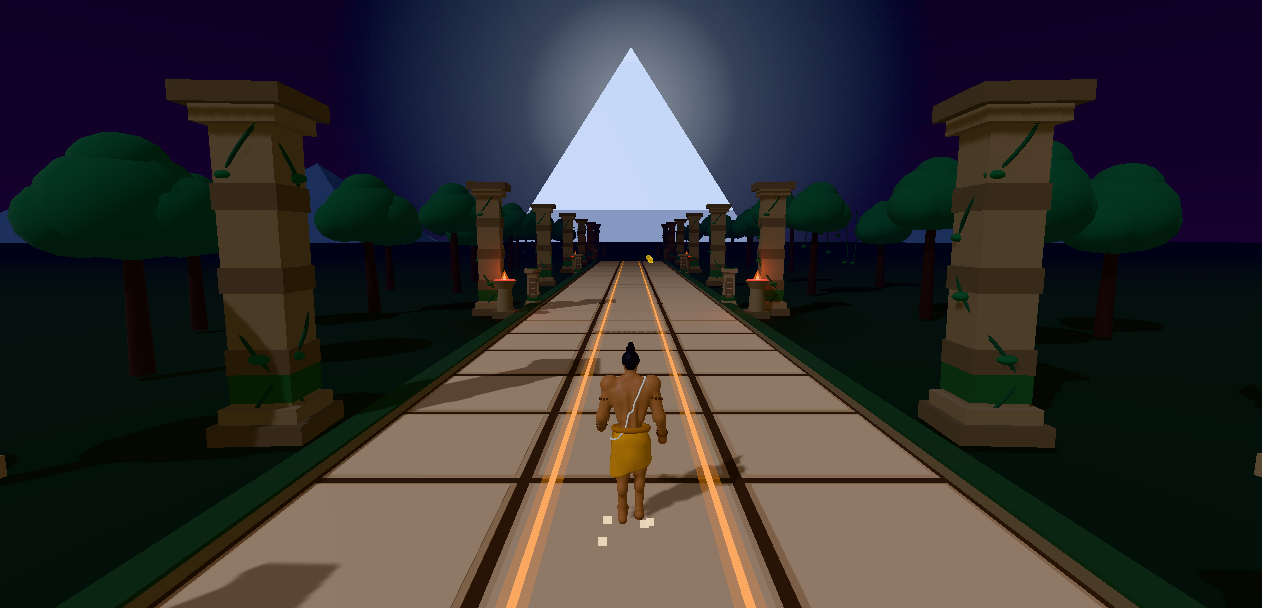
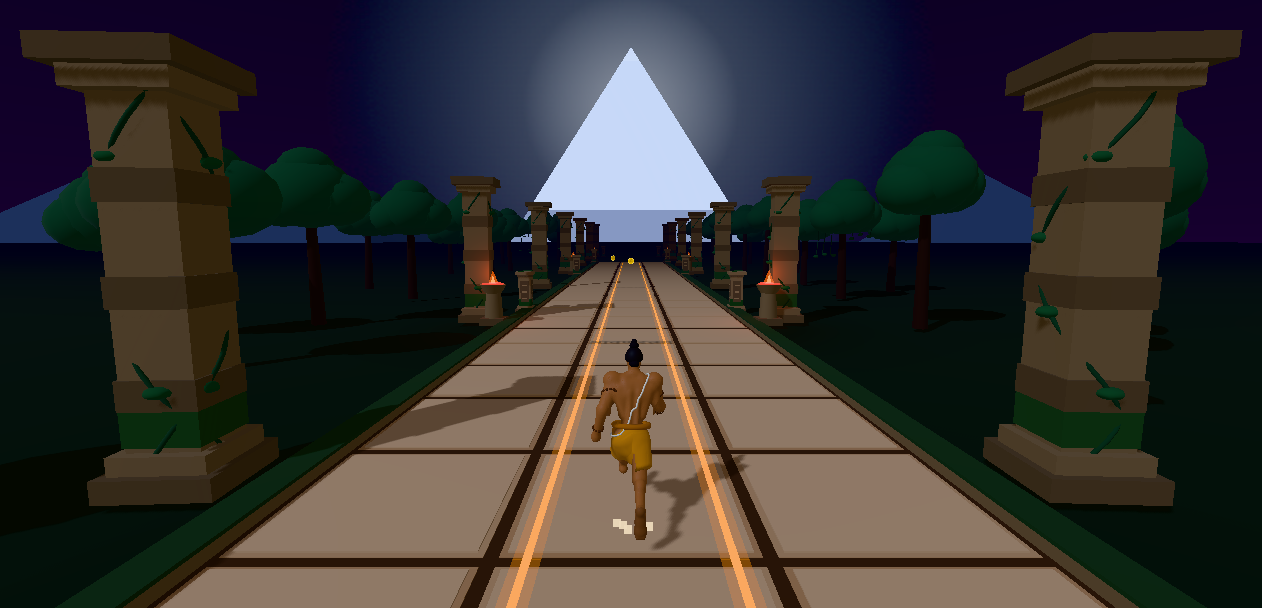
divine powers

diff --git a/src/ui/HUD.js b/src/ui/HUD.js
@@ -185,11 +185,14 @@ export function initHUD(root) {
         ⚡ SHAKTI ENERGY
       </div>
     </div>
-    <div style="width: 100%; height: 10px; background: rgba(255, 255, 255, 0.15); border-radius: 5px; overflow: hidden;">
-      <div id="hud-shakti-bar" style="width: 40%; height: 100%; background: linear-gradient(90deg, #ff8c2e, #ffe666); box-shadow: 0 0 8px #ff8c2e; transition: width 0.2s;"></div>
+    <div style="position: relative; width: 100%; height: 10px; background: rgba(255, 255, 255, 0.15); border-radius: 5px; overflow: hidden;">
+      <div id="hud-shakti-bar" style="width: 0%; height: 100%; background: linear-gradient(90deg, #ff8c2e, #ffe666); box-shadow: 0 0 8px #ff8c2e; transition: width 0.2s, filter 0.2s, box-shadow 0.2s;"></div>
     </div>
     <div id="hud-power-slot" style="font-size: 11px; font-weight: 800; color: #c9a24b; margin-top: 2px; text-align: center;">
-      DIVINE POWER: NONE
+      CHARGING 0/100
+    </div>
+    <div id="hud-held-power" style="font-size: 11px; font-weight: 800; color: #8f86ad; margin-top: 1px; text-align: center;">
+      NO POWER IN HAND
     </div>
   `;
   hudContainer.appendChild(shaktiCard);
@@ -245,7 +248,8 @@ export function initHUD(root) {
     <div style="display: flex; gap: 12px;">
       <button id="btn-slide" style="width: 58px; height: 58px; border-radius: 50%; background: rgba(32,36,63,0.85); border: 2px solid #4de0c0; color: #4de0c0; font-size: 13px; font-weight: 900; box-shadow: 0 4px 12px rgba(0,0,0,0.5); cursor: pointer;">SLIDE<br>▼</button>
       <button id="btn-jump" style="width: 64px; height: 64px; border-radius: 50%; background: linear-gradient(135deg, #ff8c2e, #c2410c); border: 2px solid #fff; color: #fff; font-size: 14px; font-weight: 900; box-shadow: 0 4px 16px rgba(255,140,46,0.6); cursor: pointer;">JUMP<br>▲</button>
-      <button id="btn-power" style="width: 64px; height: 64px; border-radius: 50%; background: linear-gradient(135deg, #3a2f6b, #4de0c0); border: 2px solid #c9a24b; color: #fff; font-size: 12px; font-weight: 900; box-shadow: 0 4px 16px rgba(77,224,192,0.5); cursor: pointer;">DIVINE<br>POWER</button>
+      <button id="btn-power" style="width: 64px; height: 64px; border-radius: 50%; background: linear-gradient(135deg, #3a2f6b, #4de0c0); border: 2px solid #c9a24b; color: #fff; font-size: 12px; font-weight: 900; box-shadow: 0 4px 16px rgba(77,224,192,0.5); cursor: pointer;">POWER<br>(E)</button>
+      <button id="btn-ult" style="width: 64px; height: 64px; border-radius: 50%; background: linear-gradient(135deg, #6b2f3a, #ffd700); border: 2px solid #ffd700; color: #fff; font-size: 12px; font-weight: 900; box-shadow: 0 4px 16px rgba(255,215,0,0.5); cursor: pointer;">ULT<br>(C)</button>
     </div>
   `;
   root.appendChild(touchControls);
@@ -255,6 +259,7 @@ export function initHUD(root) {
   touchControls.querySelector('#btn-jump').addEventListener('pointerdown', (e) => { e.preventDefault(); if (window.__inputJump) window.__inputJump(); });
   touchControls.querySelector('#btn-slide').addEventListener('pointerdown', (e) => { e.preventDefault(); if (window.__inputSlide) window.__inputSlide(); });
   touchControls.querySelector('#btn-power').addEventListener('pointerdown', (e) => { e.preventDefault(); if (window.__triggerPower) window.__triggerPower(); });
+  touchControls.querySelector('#btn-ult').addEventListener('pointerdown', (e) => { e.preventDefault(); if (window.__triggerUltimate) window.__triggerUltimate(); });
 }
 
 export function initPauseOverlay(root) {
@@ -325,16 +330,37 @@ export function updateHUD(punya, distance, shakti, power, combo, lives, eternal 
       shaktiBarEl.style.width = `${pct}%`;
     }
   }
-  if (powerSlotEl && power !== shown.power) {
-    shown.power = power;
-    if (power === 'sudarshan_chakra') {
-      powerSlotEl.innerHTML = `<span style="color: #ffaa22;">⚡ SUDARSHAN CHAKRA</span> (READY)`;
-    } else if (power === 'trishul') {
-      powerSlotEl.innerHTML = `<span style="color: #dbe5eb;">🔱 SHIVA'S TRISHUL</span> (READY)`;
-    } else if (power === 'vishnu_shield') {
-      powerSlotEl.innerHTML = `<span style="color: #4de0c0;">🛡 VISHNU'S SHIELD</span> (READY)`;
-    } else {
-      powerSlotEl.innerHTML = `COLLECT POWER ORB`;
+  // Two lines, two truths. Line one is the C ultimate: how charged, or ready.
+  // Line two is the E system: which power is in hand right now.
+  if (powerSlotEl) {
+    const level = Math.floor(Math.min(100, Math.max(0, shakti)));
+    const full = level >= 100;
+    const heldNames = {
+      sudarshan_chakra: ['\u26a1 CHAKRA IN HAND \u2014 PRESS E', '#ffaa22'],
+      trishul: ['\ud83d\udd31 TRISHUL IN HAND \u2014 PRESS E', '#dbe5eb'],
+      vishnu_shield: ['\ud83d\udee1\ufe0f SHIELD IN HAND \u2014 PRESS E', '#4de0c0'],
+    };
+    const slotKey = `${full ? 'FULL' : 'c' + level}|${power || 'none'}`;
+    if (slotKey !== shown.power) {
+      shown.power = slotKey;
+      if (full) {
+        powerSlotEl.innerHTML = `<span style="color: #ffd700; text-shadow: 0 0 8px #ffaa22;">\ud83d\udd25 ULTIMATE READY \u2014 PRESS C</span>`;
+        shaktiBarEl.style.filter = 'none';
+        shaktiBarEl.style.boxShadow = '0 0 16px #ffd700';
+      } else {
+        powerSlotEl.innerHTML = `ULTIMATE CHARGING ${level}/100`;
+        shaktiBarEl.style.filter = 'saturate(0.55) brightness(0.9)';
+        shaktiBarEl.style.boxShadow = '0 0 8px #ff8c2e';
+      }
+      const heldEl = document.getElementById('hud-held-power');
+      if (heldEl) {
+        const entry = heldNames[power];
+        if (entry) {
+          heldEl.innerHTML = `<span style="color: ${entry[1]};">${entry[0]}</span>`;
+        } else {
+          heldEl.innerHTML = 'NO POWER IN HAND';
+        }
+      }
     }
   }
   if (comboBadgeEl && combo !== shown.combo) {

diff --git a/src/systems/PowerSystem.js b/src/systems/PowerSystem.js
@@ -135,19 +135,12 @@ export function getProjectilePool() {
   return projectilePool;
 }
 
-export function triggerDivinePower() {
-  if (state.phase !== 'playing') return;
-  if (!state.activePower) {
-    showBanner('COLLECT POWER ORB FIRST!', 1.2);
-    return;
-  }
-  if (state.shakti < CONFIG.POWER_SHAKTI_COST) {
-    showBanner('NEED MORE SHAKTI ENERGY!', 1.2);
-    return;
-  }
+const DIVINE_POWERS = ['sudarshan_chakra', 'trishul', 'vishnu_shield'];
 
-  const power = state.activePower;
-  state.shakti = Math.max(0, state.shakti - CONFIG.POWER_SHAKTI_COST);
+// One place that actually performs a power, shared by both systems: E spends
+// the held power, C spends a full Shakti bar on a random one.
+function executePower(power) {
+  state.lastPowerUsed = power;
   playSound('power');
 
   if (power === 'sudarshan_chakra') {
@@ -168,13 +161,29 @@ export function triggerDivinePower() {
   if (state.chase.active) {
     resolveNagaChase(true);
   }
+}
 
-  // The power stays primed while there is energy banked for another cast.
-  // Nulling it after every use was what made powers feel scarce: 60 shakti in
-  // the bar bought exactly one cast, and the rest evaporated.
-  if (state.shakti < CONFIG.POWER_SHAKTI_COST) {
-    state.activePower = null;
+// E - use the power in hand. Never touches the Shakti bar.
+export function useHeldPower() {
+  if (state.phase !== 'playing') return;
+  if (!state.heldPower) {
+    showBanner('NO DIVINE POWER IN HAND \u2014 GRAB AN ORB!', 1.2);
+    return;
   }
+  const power = state.heldPower;
+  state.heldPower = null;
+  executePower(power);
+}
+
+// C - unleash the Shakti ultimate. Never touches the held power.
+export function unleashUltimate() {
+  if (state.phase !== 'playing') return;
+  if (state.shakti < state.maxShakti) {
+    showBanner(`SHAKTI ${Math.floor(state.shakti)}/${state.maxShakti} \u2014 FILL THE BAR TO UNLEASH`, 1.2);
+    return;
+  }
+  state.shakti = 0;
+  executePower(DIVINE_POWERS[Math.floor(Math.random() * DIVINE_POWERS.length)]);
 }
 
 export function launchProjectile(type, laneX, startY) {
@@ -195,15 +204,20 @@ export function launchProjectile(type, laneX, startY) {
 // Power orb pickup: tops up Shakti and primes the next power in the cycle.
 export function collectPowerOrb(orb) {
   orb.visible = false;
-  state.shakti = Math.min(state.maxShakti, state.shakti + CONFIG.SHAKTI_PER_ORB);
-  // Each pickup grants the power it depicts, so what you see is what you get
-  state.activePower = orb.userData.power || 'sudarshan_chakra';
+  // The orb's power goes IN HAND - what you see on the track is what you get,
+  // and the newest pickup replaces whatever you were holding. The Shakti bar
+  // is deliberately untouched: these are two separate systems.
+  state.heldPower = orb.userData.power || 'sudarshan_chakra';
 
   playSound('power');
   spawnFX(orb.position, '#4de0c0', 20);
 
-  const powerName = state.activePower.replace('_', ' ').toUpperCase();
-  showBanner(`✨ DIVINE POWER PRIMED: ${powerName}! ✨`, 2.2);
+  const NAMES = {
+    sudarshan_chakra: '\u26a1 SUDARSHAN CHAKRA',
+    trishul: '\ud83d\udd31 SHIVA\'S TRISHUL',
+    vishnu_shield: '\ud83d\udee1\ufe0f VISHNU\'S SHIELD',
+  };
+  showBanner(`${NAMES[state.heldPower]} IN HAND \u2014 PRESS E!`, 2.0);
 }
 
 // Flies active bolts down the lane and blasts whatever they touch.

diff --git a/src/core/InputHandler.js b/src/core/InputHandler.js
@@ -2,7 +2,7 @@
 // actions. Pause lives here too - it is a control, not a game rule.
 import { state } from './GameState.js';
 import { switchLane, doJump, doSlide } from '../entities/Player.js';
-import { triggerDivinePower } from '../systems/PowerSystem.js';
+import { useHeldPower, unleashUltimate } from '../systems/PowerSystem.js';
 import { showPause } from '../ui/HUD.js';
 
 const keys = {};
@@ -21,7 +21,8 @@ window.__togglePause = togglePause;
 window.__inputLaneChange = switchLane;
 window.__inputJump = doJump;
 window.__inputSlide = doSlide;
-window.__triggerPower = triggerDivinePower;
+window.__triggerPower = useHeldPower;
+window.__triggerUltimate = unleashUltimate;
 
 export function initInput() {
   window.addEventListener('keydown', (e) => {
@@ -36,8 +37,10 @@ export function initInput() {
       doJump();
     } else if (e.code === 'KeyS' || e.code === 'ArrowDown') {
       doSlide();
-    } else if (e.code === 'ShiftLeft' || e.code === 'ShiftRight' || e.code === 'KeyE') {
-      triggerDivinePower();
+    } else if (e.code === 'KeyE' || e.code === 'ShiftLeft' || e.code === 'ShiftRight') {
+      useHeldPower();
+    } else if (e.code === 'KeyC') {
+      unleashUltimate();
     } else if (e.code === 'KeyP' || e.code === 'Escape') {
       togglePause();
     } else if (e.code === 'Enter') {

diff --git a/src/ui/StartScreen.js b/src/ui/StartScreen.js
@@ -43,10 +43,12 @@ export function initStartScreen(root) {
           • <b>S / Down:</b> Slide Under
         </div>
         <div style="font-size: 13px; color: #ffe6aa;">
-          <b>✨ DIVINE POWERS:</b><br>
-          • <b>Shift / Tap:</b> Cast Power<br>
-          • <b>Chakra:</b> Blasts lane ahead<br>
-          • <b>Trishul / Shield:</b> Triple lane blast & barrier
+          <b>✨ DIVINE POWERS (E):</b><br>
+          • Grab an orb on the track \u2014 its power goes in your hand<br>
+          • <b>Press E</b> to use it \u00b7 Chakra blasts your lane \u00b7 Trishul sweeps all three \u00b7 Shield guards you<br>
+          <b style="color:#ffd700;">\ud83d\udd25 SHAKTI ULTIMATE (C):</b><br>
+          • The bar starts empty and fills from <b>Om +3</b> and <b>Beads +12</b> (never from orbs)<br>
+          • When FULL, <b>press C</b> \u2014 a RANDOM divine power erupts and the bar empties
         </div>
       </div>
       <button id="btn-start" style="background: linear-gradient(135deg, #ff8c2e, #c2410c); border: 2px solid #ffd700; color: #ffffff; font-size: 18px; font-weight: 900; letter-spacing: 1.5px; padding: 14px 40px; border-radius: 30px; cursor: pointer; box-shadow: 0 0 20px rgba(255,140,46,0.8); transition: transform 0.15s, box-shadow 0.15s;">

diff --git a/src/core/Game.js b/src/core/Game.js
@@ -195,7 +195,7 @@ function updateSimulation(dt) {
   if (state.phase !== 'playing') return; // the Naga's strike ended the run
 
   // Update HUD
-  updateHUD(state.punya, state.distance, state.shakti, state.activePower, state.combo, state.lives, state.eternal, state.eternalMult);
+  updateHUD(state.punya, state.distance, state.shakti, state.heldPower, state.combo, state.lives, state.eternal, state.eternalMult);
 }
 // ===== END SYSTEM =====
 
@@ -203,7 +203,7 @@ function updateSimulation(dt) {
 window.__startGame = function() {
   state.phase = 'playing';
   state.punya = 0;
-  state.shakti = 40;
+  state.shakti = 0;
   state.lives = 3;
   state.stumbleTimer = 0;
   state.distance = 0;
@@ -218,7 +218,8 @@ window.__startGame = function() {
   state.isGrounded = true;
   state.canDoubleJump = true;
   state.isSliding = false;
-  state.activePower = 'sudarshan_chakra';
+  state.heldPower = null;
+  state.lastPowerUsed = null;
   state.shieldTimer = 0;
   state.combo = 1;
   state.comboTimer = 0;

diff --git a/src/systems/ScoreSystem.js b/src/systems/ScoreSystem.js
@@ -29,7 +29,7 @@ export function updateCombo(dt) {
 export function collectOm(om) {
   om.visible = false;
   state.punya += CONFIG.OM_GLYPH_PUNYA * state.combo * state.eternalMult;
-  state.shakti = Math.min(state.maxShakti, state.shakti + 2.5);
+  state.shakti = Math.min(state.maxShakti, state.shakti + CONFIG.SHAKTI_PER_OM);
   playSound('om');
   spawnFX(om.position, '#ffaa22', 12);
 }
@@ -40,7 +40,7 @@ export function collectRudraksha(r) {
   state.combo = Math.min(6, state.combo + CONFIG.RUDRAKSHA_PUNYA_MULT - 1);
   state.comboTimer = 12.0; // 12 seconds multiplier extension
   state.punya += 75 * state.combo * state.eternalMult;
-  state.shakti = Math.min(state.maxShakti, state.shakti + 15);
+  state.shakti = Math.min(state.maxShakti, state.shakti + CONFIG.SHAKTI_PER_BEAD);
   playSound('rudraksha');
   spawnFX(r.position, '#ffffff', 26);
   showBanner('🕉 SACRED RUDRAKSHA! 3x PUNYA MULTIPLIER! 🕉', 2.0);

diff --git a/src/utils/Constants.js b/src/utils/Constants.js
@@ -35,11 +35,14 @@ export const CONFIG = {
   SURFACE_Y: 0.0,
   RUDRAKSHA_PUNYA_MULT: 3,
   OM_GLYPH_PUNYA: 10,
-  // An orb banks more than one cast (cost 25), and Om glyphs trickle energy
-  // in - so a well-flown line can chain divine powers instead of rationing
-  // one per orb.
-  SHAKTI_PER_ORB: 35,
-  POWER_SHAKTI_COST: 25,
+  // TWO independent divine systems:
+  //   E - the HELD power: orbs carry a specific power; grab it, press E to
+  //       use it, the hand empties. Shakti is untouched throughout.
+  //   C - the SHAKTI ULTIMATE: starts at 0, charges ONLY from Om glyphs and
+  //       Rudraksha beads (never from power orbs), and at 100 erupts one
+  //       RANDOM power, draining back to 0.
+  SHAKTI_PER_OM: 3,
+  SHAKTI_PER_BEAD: 12,
 
   // The pilgrimage in four stages. Each stage tightens the spawn gap, raises
   // the chance of paired hazards (two lanes at once - there is always a clean

diff --git a/src/core/GameState.js b/src/core/GameState.js
@@ -25,7 +25,8 @@ export const state = {
   canDoubleJump: true,
   isSliding: false,
   slideTimer: 0,
-  activePower: null, // 'sudarshan_chakra' | 'trishul' | 'vishnu_shield'
+  heldPower: null,     // the power in hand (from an orb), spent with E
+  lastPowerUsed: null, // which power the last use (E or C) delivered
   shieldTimer: 0,
   speed: 16.0,
   combo: 1,
